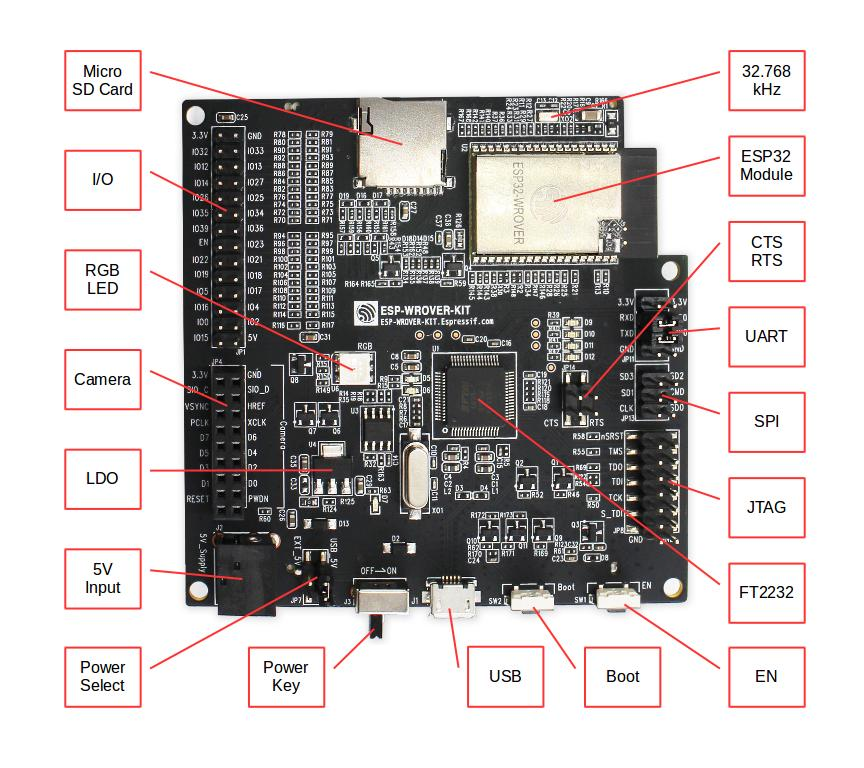
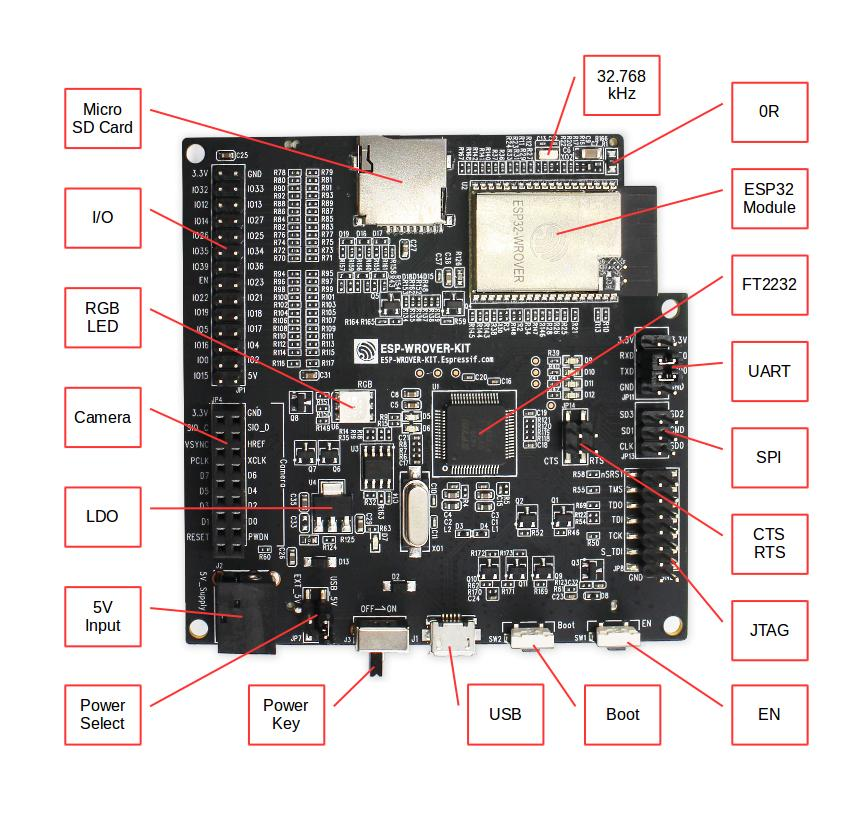
Updated desription of ESP-WROVER-KIT features in getting started guide, changed link to JTAG Debugging

diff --git a/docs/get-started/get-started-wrover-kit.rst b/docs/get-started/get-started-wrover-kit.rst
@@ -8,8 +8,8 @@ What You Need
 -------------
 
 * 1 × ESP-WROVER-KIT board
-* 1 × USB A / mini USB B cable 
-* 1 × PC loaded with Windows, Linux or Mac O/S
+* 1 × USB A / micro USB B cable 
+* 1 × PC loaded with Windows, Linux or Mac OS
 
 
 The Board
@@ -48,6 +48,8 @@ The following list and figures below describe key components, interfaces and con
 
 32.768 kHz
     An external precision 32.768 kHz crystal oscillator provides the chip with a clock of low-power consumption during the Deep-sleep mode.
+0R
+    A zero Ohm resistor intended as a placeholder for a current shunt. May be desoldered or replaced with a current shunt to facilitate measurement of current required by ESP32 module depending on power mode.
 ESP32 Module
     ESP-WROVER-KIT is compatible with both ESP-WROOM-32 and ESP32-WROVER. The ESP32-WROVER module features all the functions of ESP-WROOM-32 and integrates an external 32-MBit PSRAM for flexible extended storage and data processing capabilities.
 
@@ -55,18 +57,20 @@ ESP32 Module
 
         GPIO16 and GPIO17 are used as the CS and clock signal for PSRAM. To ensure reliable performance, the two GPIOs are not broken out.
 
-CTS/RTS
-    Serial port flow control signals: the pins are not connected to the circuitry by default. To enable them, respective pins of JP14 must be shorted with jumpers.
+FT2232
+    FT2232 chip is a multi-protocol USB-to-serial bridge. Users can control and program the FT2232 chip through the USB interface to establish communication with ESP32. The FT2232 chip also features USB-to-JTAG interface. 
+
+    USB-to-JTAG is available on channel A of FT2232, USB-to-serial on channel B.
+
+    The embedded FT2232 chip is one of the distinguishing features of the ESPWROVER-KIT. It enhances users’ convenience in terms of application development and debugging. In addition, uses do not need to buy a JTAG debugger separately, which reduces the development cost. The schematics is provided in section :ref:`wrover-kit-related-documents`.
 UART
     Serial port: the serial TX/RX signals on FT2232HL and ESP32 are broken out to the two sides of JP11. By default, the two signals are connected with jumpers. To use the ESP32 module serial interface only, the jumpers may be removed and the module can be connected to another external serial device.
 SPI
     SPI interface: the SPI interface connects to an external flash (PSRAM). To interface another SPI device, an extra CS signal is needed. If an ESP32-WROVER is being used, please note that the electrical level on the flash and SRAM is 1.8V.
+CTS/RTS
+    Serial port flow control signals: the pins are not connected to the circuitry by default. To enable them, respective pins of JP14 must be shorted with jumpers.
 JTAG
     JTAG interface: the JTAG signals on FT2232HL and ESP32 are broken out to the two sides of JP8. By default, the two signals are disconnected. To enable JTAG, shorting jumpers are required on the signals.
-FT2232
-    FT2232 chip is a multi-protocol USB-to-serial bridge. The FT2232 chip features USB-to-UART and USB-to-JTAG functionalities. Users can control and program the FT2232 chip through the USB interface to establish communication with ESP32.
-
-    The embedded FT2232 chip is one of the distinguishing features of the ESPWROVER-KIT. It enhances users’ convenience in terms of application development and debugging. In addition, uses do not need to buy a JTAG debugger separately, which reduces the development cost. The schematics is provided in section :ref:`wrover-kit-related-documents`.
 EN
     Reset button: pressing this button resets the system.
 Boot
@@ -185,7 +189,7 @@ Related Documents
 * `ESP-WROVER-KIT schematic`_ (PDF)
 * `ESP32 Datasheet <http://www.espressif.com/sites/default/files/documentation/esp32_datasheet_en.pdf>`_ (PDF)
 * `ESP-WROOM-32 Datasheet <http://espressif.com/sites/default/files/documentation/esp-wroom-32_datasheet_en.pdf>`_ (PDF)
-* `JTAG Debugging for ESP32 <https://espressif.com/sites/default/files/documentation/jtag_debugging_for_esp32_en.pdf>`_ (PDF)
+* :doc:`../api-guides/jtag-debugging/index`
 
 
 

diff --git a/docs/get-started/get-started-devkitc.rst b/docs/get-started/get-started-devkitc.rst
@@ -8,8 +8,8 @@ What You Need
 -------------
 
 * 1 × ESP32-DevKitC board
-* 1 × USB A / mini USB B cable 
-* 1 × PC loaded with Windows, Linux or Mac O/S
+* 1 × USB A / micro USB B cable 
+* 1 × PC loaded with Windows, Linux or Mac OS
 
 
 Overview
